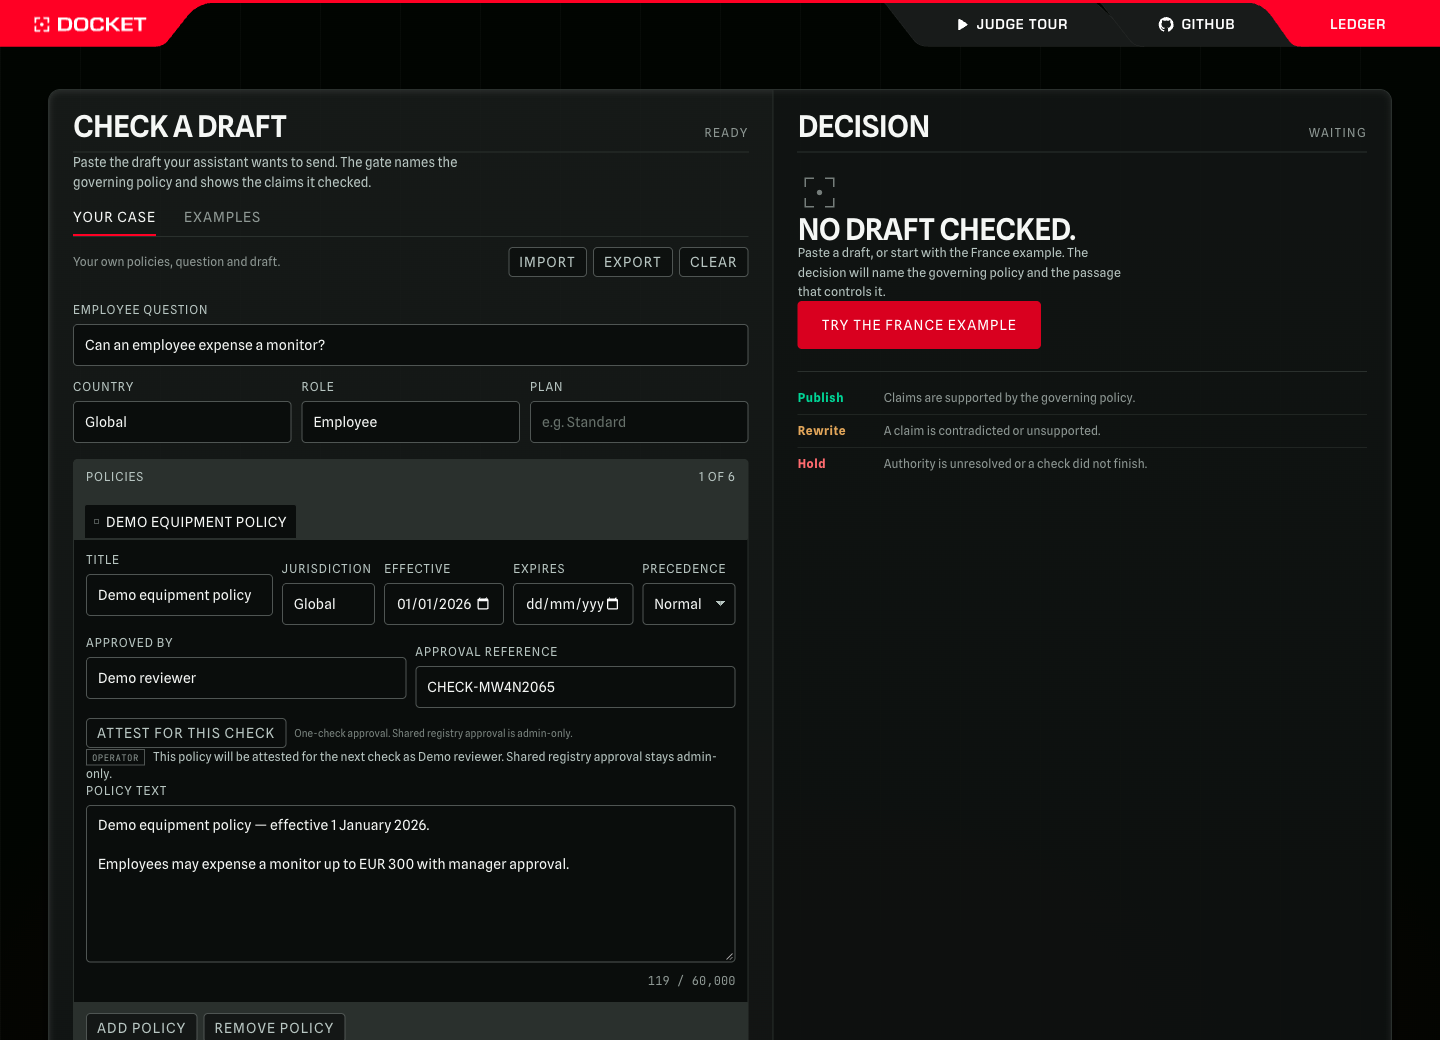
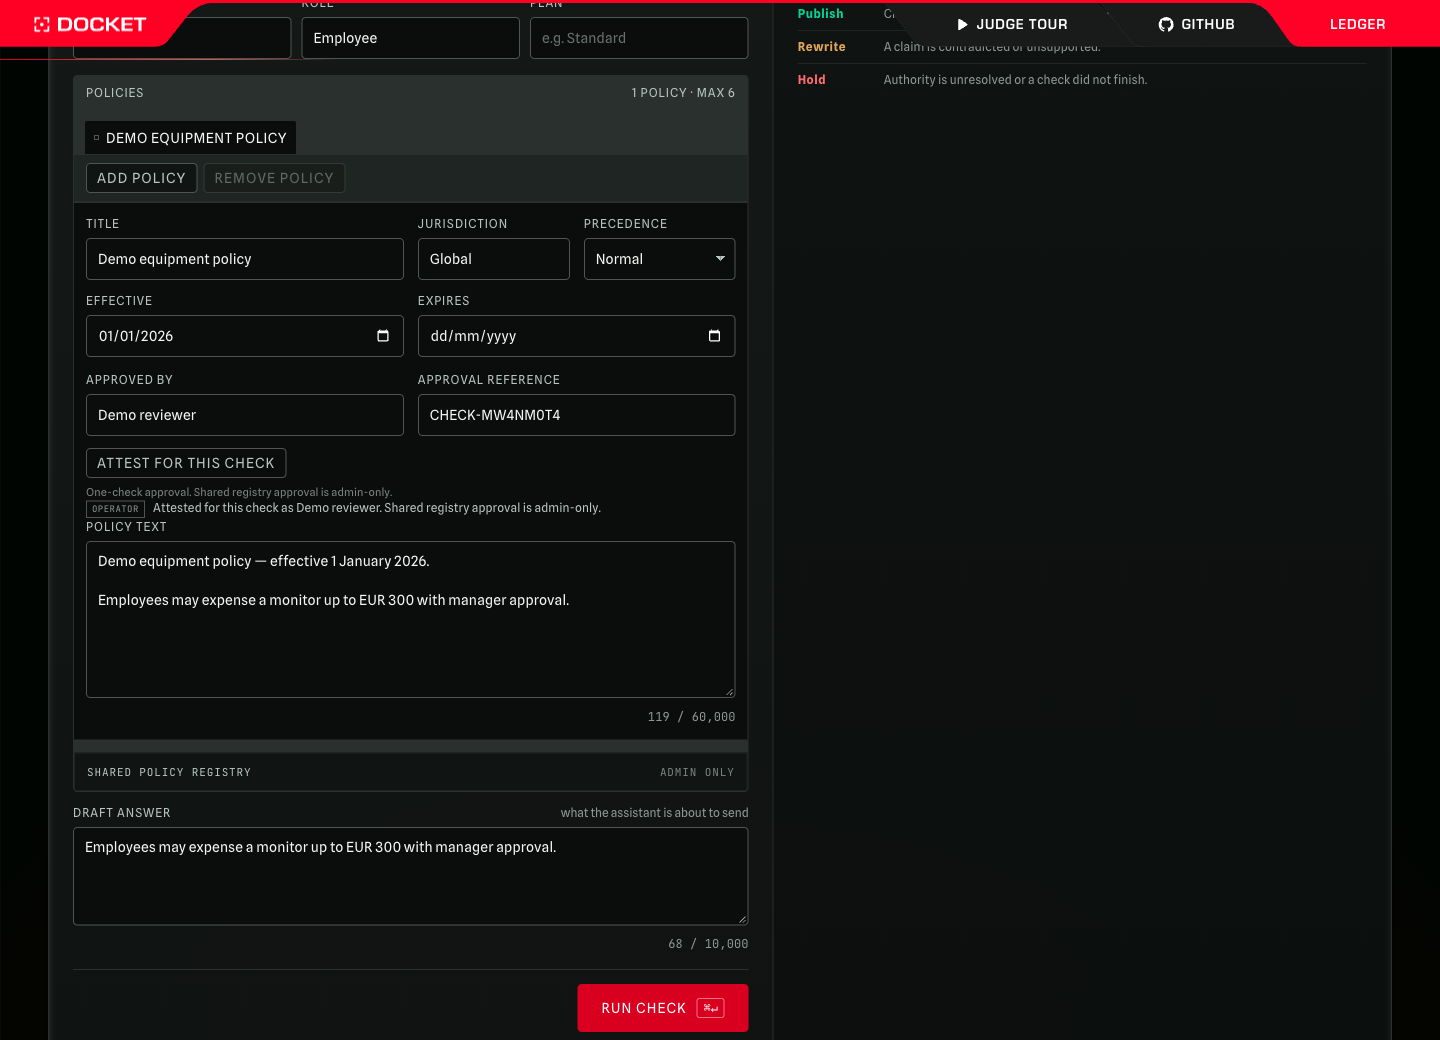
Align the policy editor fields and clarify the policy count

diff --git a/website/integrations/index.html b/website/integrations/index.html
@@ -19,7 +19,7 @@
   </script>
   <link rel="stylesheet" href="/_next/static/chunks/903dbd2dea79002f.css" />
   <link rel="stylesheet" href="/_next/static/chunks/59b07a433639f987.css" />
-  <link rel="stylesheet" href="/integrations/gate.css?v=20261106h" />
+  <link rel="stylesheet" href="/integrations/gate.css?v=20261106k" />
   <link rel="stylesheet" href="/docket-footer.css?v=20261105g" />
   <link rel="stylesheet" href="/docket-brand.css?v=20261106c" />
   <link rel="icon" href="/docket-icon.svg" type="image/svg+xml" />
@@ -79,14 +79,14 @@
 <div class="gate-policies">
 <div class="gate-policies-head">
 <span>Policies</span>
-<span id="gate-doc-count">1 of 6</span>
+<span id="gate-doc-count">1 policy · max 6</span>
 </div>
 <div aria-label="Policies" class="gate-doc-tabs" id="gate-doc-tabs" role="tablist"></div>
-<div class="gate-doc-editor" id="gate-doc-editor" role="tabpanel"></div>
 <div class="gate-doc-actions">
 <button class="gate-mini" id="gate-add-doc" type="button">Add policy</button>
 <button class="gate-mini" id="gate-remove-doc" type="button">Remove policy</button>
 </div>
+<div class="gate-doc-editor" id="gate-doc-editor" role="tabpanel"></div>
 <details class="gate-admin" id="gate-approval-block">
 <summary>Shared policy registry <span>admin only</span></summary>
 <div class="gate-admin-body">
@@ -324,6 +324,6 @@
 <div class="bg-background"><footer class="relative flex w-full flex-col justify-end overflow-hidden pb-4 md:pb-10 bg-linear-to-t from-[#7D000E] to-transparent dk-console-footer" data-page-find-surface="red" style="--scale:calc(100vw / 1840px)"><section class="dk-console-city-band" aria-hidden="true"><div class="pointer-events-none absolute inset-0" style="mask-image: linear-gradient(white 70%, transparent 100%);"><img alt="" class="h-full w-full object-cover object-top opacity-25 select-none" loading="eager" decoding="async" width="4096" height="2160" src="/_next/static/media/city-outline.abe9c9cc.png" style="color:transparent"></div></section><div class="relative"><div class="px-sides absolute bottom-0 left-0 z-10 mt-auto w-full mix-blend-overlay dk-footer-mark md:px-12"><img alt="" class="mx-auto block w-full max-w-lg select-none md:hidden" data-nimg="1" decoding="async" height="600" loading="lazy" src="/images/footer/docket-mark.svg" style="color:transparent" width="682"/><img alt="" class="hidden w-full select-none md:block" data-nimg="1" decoding="async" height="20" loading="lazy" src="/images/footer/docket-wordmark.svg" style="color:transparent" width="119"/></div><div class="px-sides relative z-20 flex flex-col-reverse gap-x-8 gap-y-12 pb-[max(calc(--spacing(320)*var(--scale)),40px)] sm:pb-[40vw] md:flex-col md:px-12 md:py-[calc(--spacing(20)*var(--scale))] lg:pt-0 lg:pb-[calc(--spacing(42)*var(--scale))] xl:flex-row xl:justify-between dk-footer-no-newsletter"><div class="flex flex-col items-start gap-8 xl:items-end"><div class="grid grid-cols-2 gap-6 min-[900px]:flex min-[900px]:flex-row min-[900px]:justify-end md:gap-10 lg:mx-0 lg:grid-cols-3 lg:gap-20 lg:pr-[calc(--spacing(12)*var(--scale))] max-sm:[&amp;&gt;*:nth-child(n+3)]:col-span-2"><div class="relative h-fit w-max max-w-full dk-footer-col" data-dk-col><span class="dk-footer-col-highlight" aria-hidden="true"></span><span class="dk-footer-col-rail" aria-hidden="true"></span><span class="dk-footer-col-label font-misc">Product</span><div class="dk-footer-col-links"><a href="#docket-gate">Live Gate</a><a href="#gate-stages">How it Works</a><a href="#gate-panel-examples">Scenarios</a><a href="https://github.com/j4yop/docket#api" target="_blank" rel="noopener noreferrer">API</a></div></div><div class="relative h-fit w-max max-w-full dk-footer-col" data-dk-col><span class="dk-footer-col-highlight" aria-hidden="true"></span><span class="dk-footer-col-rail" aria-hidden="true"></span><span class="dk-footer-col-label font-misc">Build</span><div class="dk-footer-col-links"><a href="https://github.com/j4yop/docket" target="_blank" rel="noopener noreferrer">GitHub</a><a href="https://github.com/j4yop/docket#readme" target="_blank" rel="noopener noreferrer">README</a><a href="https://github.com/j4yop/docket/blob/main/ARCHITECTURE.md" target="_blank" rel="noopener noreferrer">Architecture</a><a href="https://clocked.rezolve.ai/" target="_blank" rel="noopener noreferrer">Clocked</a></div></div><div class="relative h-fit w-max max-w-full dk-footer-col" data-dk-col><span class="dk-footer-col-highlight" aria-hidden="true"></span><span class="dk-footer-col-rail" aria-hidden="true"></span><span class="dk-footer-col-label font-misc">Social</span><div class="dk-footer-col-links"><a href="https://www.linkedin.com/in/jaygopaltripathy/" target="_blank" rel="noopener noreferrer">LinkedIn</a><a href="https://x.com/j4y_op" target="_blank" rel="noopener noreferrer">X</a><a href="https://github.com/j4yop/docket" target="_blank" rel="noopener noreferrer">GitHub</a></div></div></div></div></div></div><div class="px-sides relative bottom-0 left-0 z-20 flex w-full justify-center gap-4 dk-reveal dk-footer-legal pt-6 pb-2 md:absolute md:justify-between md:px-12 md:pt-10 xl:pb-[max(calc(--spacing(10)*var(--scale)),8px)] 2xl:pb-[calc(--spacing(6)*var(--scale))]"><div class="hidden w-full items-center gap-2 lg:flex xl:ml-[24.12%]"><svg aria-hidden="true" class="text-primary h-4 w-auto" fill="none" focusable="false" viewbox="0 0 484 16" xmlns="http://www.w3.org/2000/svg"><path d="M479.784 0.956299C481.369 0.956299 482.654 2.24149 482.654 3.82642V11.4797C482.654 13.0648 481.369 14.3499 479.784 14.3499H8.29785C7.2771 14.3499 6.33268 13.8077 5.81836 12.926L1.35449 5.27271C0.238432 3.35945 1.61805 0.956349 3.83301 0.956299H479.784Z" stroke="currentColor" stroke-width="1.9133"></path><path d="M7.42773 4.30591H392.25C393.042 4.30591 393.685 4.94806 393.686 5.74048V9.56763C393.685 10.36 393.042 11.0022 392.25 11.0022H9.34766C8.80477 11.0022 8.30784 10.6955 8.06445 10.2102L6.14551 6.38403C5.66699 5.42995 6.36049 4.30624 7.42773 4.30591Z" fill="currentColor" stroke="currentColor" stroke-width="0.956652"></path><rect fill="currentColor" height="7.65321" rx="0.956652" width="7.65321" x="321.939" y="3.82739"></rect><rect fill="currentColor" height="7.65321" rx="0.956652" width="7.65321" x="333.42" y="3.82739"></rect><rect fill="currentColor" height="7.65321" rx="0.956652" width="7.65321" x="344.898" y="3.82739"></rect><rect fill="currentColor" height="7.65321" rx="0.956652" width="7.65321" x="356.377" y="3.82739"></rect><rect fill="currentColor" height="7.65321" rx="0.956652" width="7.65321" x="367.857" y="3.82739"></rect><rect fill="currentColor" height="7.65321" rx="0.956652" width="7.65321" x="379.336" y="3.82739"></rect><rect fill="currentColor" height="7.65321" rx="0.956652" width="7.65321" x="390.818" y="3.82739"></rect><rect fill="currentColor" height="7.65321" rx="0.956652" width="7.65321" x="402.299" y="3.82739"></rect><rect fill="currentColor" height="7.65321" rx="0.956652" width="7.65321" x="413.779" y="3.82739"></rect><rect fill="currentColor" height="7.65321" rx="0.956652" width="7.65321" x="425.26" y="3.82739"></rect><rect fill="currentColor" height="7.65321" rx="0.956652" width="7.65321" x="436.738" y="3.82739"></rect><rect fill="currentColor" height="7.65321" rx="0.956652" width="7.65321" x="448.217" y="3.82739"></rect><rect fill="currentColor" height="7.65321" rx="0.956652" width="7.65321" x="459.697" y="3.82739"></rect><rect fill="currentColor" height="7.65321" rx="0.956652" width="7.65321" x="471.178" y="3.82739"></rect></svg><span class="font-misc text-primary text-sm whitespace-nowrap uppercase">Publish With Proof</span></div></div></footer></div>
   <script src="/docket-brand.js?v=20261106k" defer></script>
   <script src="/docket-footer.js?v=20261105i" defer></script>
-  <script src="/integrations/gate.js?v=20261106n" defer></script>
+  <script src="/integrations/gate.js?v=20261106q" defer></script>
 </body>
 </html>

diff --git a/website/integrations/gate.js b/website/integrations/gate.js
@@ -558,7 +558,7 @@
       dot.setAttribute("aria-hidden", "true");
       const label = document.createElement("span");
       label.className = "gate-doc-label";
-      label.textContent = doc.title || `Policy ${index + 1}`;
+      label.textContent = doc.title || `Untitled policy ${index + 1}`;
       tab.append(dot, label);
       refs.docTabs.appendChild(tab);
     });
@@ -571,9 +571,18 @@
         : doc.seeded
           ? "seeded"
           : "unapproved";
+    const hintText =
+      trust === "seeded"
+        ? "This policy is signed at startup and can publish."
+        : trust === "operator"
+          ? "This policy is attested for this check."
+          : trust === "admin"
+            ? "This policy is approved in the shared registry."
+            : "A custom policy needs an attestation or admin approval before the gate can publish.";
+    const attestDisabled = Boolean(doc.seeded || doc.policy_envelope);
     refs.docEditor.innerHTML = `
-      <div class="gate-doc-grid">
-        <div class="gate-field">
+      <div class="gate-doc-grid gate-doc-grid-fields">
+        <div class="gate-field gate-field--title">
           <label for="gate-doc-title">Title</label>
           <input id="gate-doc-title" type="text" maxlength="120" placeholder="Policy title" data-field="title" />
         </div>
@@ -582,19 +591,19 @@
           <input id="gate-doc-jurisdiction" type="text" maxlength="20" placeholder="Global" data-field="jurisdiction" />
         </div>
         <div class="gate-field">
-          <label for="gate-doc-date">Effective</label>
-          <input id="gate-doc-date" type="date" data-field="effective_date" />
-        </div>
-        <div class="gate-field">
-          <label for="gate-doc-expires">Expires</label>
-          <input id="gate-doc-expires" type="date" data-field="expires_date" />
-        </div>
-        <div class="gate-field">
           <label for="gate-doc-precedence">Precedence</label>
           <select id="gate-doc-precedence" data-field="precedence">
             <option value="0">Normal</option>
             <option value="1">Overrides</option>
           </select>
+        </div>
+        <div class="gate-field gate-field--date">
+          <label for="gate-doc-date">Effective</label>
+          <input id="gate-doc-date" type="date" data-field="effective_date" />
+        </div>
+        <div class="gate-field gate-field--date">
+          <label for="gate-doc-expires">Expires</label>
+          <input id="gate-doc-expires" type="date" data-field="expires_date" />
         </div>
       </div>
       <div class="gate-doc-grid gate-doc-approval">
@@ -608,10 +617,10 @@
         </div>
       </div>
       <div class="gate-doc-attest">
-        <button type="button" class="gate-mini" id="gate-attest-doc">Attest for this check</button>
+        <button type="button" class="gate-mini" id="gate-attest-doc" ${attestDisabled ? "disabled" : ""}>Attest for this check</button>
         <span>One-check approval. Shared registry approval is admin-only.</span>
       </div>
-      <p class="gate-doc-hint"><span class="gate-trust" data-trust="${esc(trust)}">${esc(trust)}</span>A custom policy needs an attestation or admin approval before the gate can publish.</p>
+      <p class="gate-doc-hint"><span class="gate-trust" data-trust="${esc(trust)}">${esc(trust)}</span>${esc(hintText)}</p>
       <div class="gate-field">
         <label for="gate-doc-text">Policy text</label>
         <textarea id="gate-doc-text" rows="7" maxlength="60000" placeholder="Paste the policy text…" data-field="text"></textarea>
@@ -628,7 +637,7 @@
     $("gate-doc-reference").value = doc.approval_reference || "";
     $("gate-doc-text").value = doc.text;
 
-    refs.docCount.textContent = `${state.documents.length} of ${MAX_DOCS}`;
+    refs.docCount.textContent = `${state.documents.length} ${state.documents.length === 1 ? "policy" : "policies"} · max ${MAX_DOCS}`;
     refs.addDoc.disabled = state.documents.length >= MAX_DOCS;
     refs.removeDoc.disabled = state.documents.length <= 1;
   }
@@ -2165,9 +2174,9 @@
     if (hint) {
       const effective = doc.seeded ? "seeded" : "operator";
       const note = doc.seeded
-        ? "This built-in policy is already seeded; the check uses its startup envelope."
-        : `This policy will be attested for the next check as ${esc(doc.approved_by)}.`;
-      hint.innerHTML = `<span class="gate-trust" data-trust="${effective}">${effective}</span> ${note} Shared registry approval stays admin-only.`;
+        ? "Built-in policy; the check uses its startup envelope."
+        : `Attested for this check as ${esc(doc.approved_by)}.`;
+      hint.innerHTML = `<span class="gate-trust" data-trust="${effective}">${effective}</span> ${note} Shared registry approval is admin-only.`;
     }
   }
 

diff --git a/website/integrations/gate.css b/website/integrations/gate.css
@@ -242,6 +242,8 @@ body.gate-mode::before { display: none !important; }
   transition: border-color 120ms ease, color 120ms ease, background 120ms ease;
 }
 .gate-mini:hover { border-color: var(--gate-red); color: var(--gate-text); background: rgba(255, 0, 36, 0.06); }
+.gate-mini:disabled { opacity: 0.42; cursor: not-allowed; }
+.gate-mini:disabled:hover { border-color: var(--gate-line-strong); color: var(--gate-muted); background: rgba(10, 13, 12, 0.7); }
 
 .gate-primary {
   appearance: none;
@@ -328,6 +330,13 @@ body.gate-mode::before { display: none !important; }
 .gate-context .gate-field { margin-top: 0; }
 
 #docket-gate input[type="text"],
+#docket-gate input[type="date"] {
+  min-width: 0;
+}
+#docket-gate input[type="date"] {
+  color-scheme: dark;
+}
+#docket-gate input[type="text"],
 #docket-gate input[type="date"],
 #docket-gate textarea,
 #docket-gate select {
@@ -366,8 +375,6 @@ body.gate-mode::before { display: none !important; }
   background-repeat: no-repeat;
   padding-right: 28px;
 }
-#docket-gate input[type="date"] { color-scheme: dark; }
-
 .gate-counter {
   margin-top: 4px;
   text-align: right;
@@ -450,25 +457,26 @@ body.gate-mode::before { display: none !important; }
 .gate-doc-tab[data-outcome="out of scope"] .gate-doc-dot { background: var(--gate-line-strong); }
 
 .gate-doc-editor {
-  border-top: 1px solid var(--gate-line);
-  padding: 11px 12px 12px;
+  padding: 12px 12px 14px;
   background: var(--gate-input);
 }
 .gate-doc-grid {
   display: grid;
-  grid-template-columns: 1.4fr 0.7fr 0.9fr 0.9fr 0.7fr;
-  gap: 9px;
+  grid-template-columns: repeat(4, minmax(0, 1fr));
+  gap: 12px 14px;
 }
+.gate-doc-grid-fields .gate-field--title,
+.gate-doc-grid-fields .gate-field--date { grid-column: span 2; }
 .gate-doc-editor .gate-field { margin-top: 0; }
-.gate-doc-editor .gate-field + .gate-field { margin-top: 9px; }
 .gate-doc-actions {
   display: flex;
   gap: 6px;
-  padding: 9px 12px 11px;
-  border-top: 1px solid var(--gate-line);
+  padding: 8px 12px;
+  border-bottom: 1px solid var(--gate-line);
+  background: rgba(4, 7, 6, 0.28);
 }
-.gate-doc-attest { display: flex; flex-wrap: wrap; align-items: center; gap: 8px; margin-top: 10px; }
-.gate-doc-attest span { font-size: 10px; line-height: 1.4; color: var(--gate-faint); }
+.gate-doc-attest { display: flex; flex-direction: column; align-items: flex-start; gap: 6px; margin-top: 12px; }
+.gate-doc-attest span { max-width: 62ch; font-size: 11px; line-height: 1.45; color: var(--gate-faint); }
 .gate-run-row {
   display: flex;
   justify-content: flex-end;
@@ -945,8 +953,8 @@ body.gate-mode::before { display: none !important; }
 .gate-policy-meta { display: flex; flex-direction: column; align-items: flex-end; gap: 2px; font-family: var(--gate-mono); font-size: 11px; color: var(--gate-faint); white-space: nowrap; }
 .gate-policy-failed { border-left: 2px solid var(--gate-red); }
 .gate-policy-failed .gate-policy-main b { color: var(--gate-red); }
-.gate-doc-approval { grid-template-columns: 1fr 1fr; margin-top: 9px; }
-.gate-doc-hint { margin: 6px 0 10px; font-size: 12px; line-height: 1.4; color: var(--gate-muted); }
+.gate-doc-approval { grid-template-columns: repeat(2, minmax(0, 1fr)); gap: 12px 14px; margin-top: 14px; }
+.gate-doc-hint { margin: 8px 0 18px; font-size: 12px; line-height: 1.45; color: var(--gate-muted); }
 
 /* ---------------------------------------------------------- counterfactual */
 .gate-ablation-controls { display: flex; align-items: center; gap: 8px; padding-top: 10px; flex-wrap: wrap; }
@@ -2122,4 +2130,17 @@ body.gate-console [data-header-nav="true"] { display: none !important; }
   .gate-shell[data-has-result="true"] .gate-verdict { padding: 20px 16px 24px; }
   .gate-edit-draft { margin-left: 0; }
   .gate-record-fields { grid-template-columns: 1fr; }
+}
+
+
+/* Keep the policy fields on a stable four-column rhythm. */
+@media (max-width: 760px) {
+  .gate-doc-grid-fields { grid-template-columns: repeat(2, minmax(0, 1fr)); }
+  .gate-doc-grid-fields .gate-field--title { grid-column: span 2; }
+  .gate-doc-grid-fields .gate-field--date { grid-column: span 1; }
+}
+
+@media (max-width: 480px) {
+  .gate-doc-grid-fields { grid-template-columns: 1fr; }
+  .gate-doc-grid-fields .gate-field { grid-column: auto; }
 }

diff --git a/website/tour.html b/website/tour.html
@@ -19,7 +19,7 @@
   </script>
   <link rel="stylesheet" href="/_next/static/chunks/903dbd2dea79002f.css" />
   <link rel="stylesheet" href="/_next/static/chunks/59b07a433639f987.css" />
-  <link rel="stylesheet" href="/integrations/gate.css?v=20261106h" />
+  <link rel="stylesheet" href="/integrations/gate.css?v=20261106k" />
   <link rel="stylesheet" href="/docket-footer.css?v=20261105g" />
   <link rel="stylesheet" href="/docket-brand.css?v=20261106c" />
   <link rel="stylesheet" href="/tour.css?v=20261106d" />
